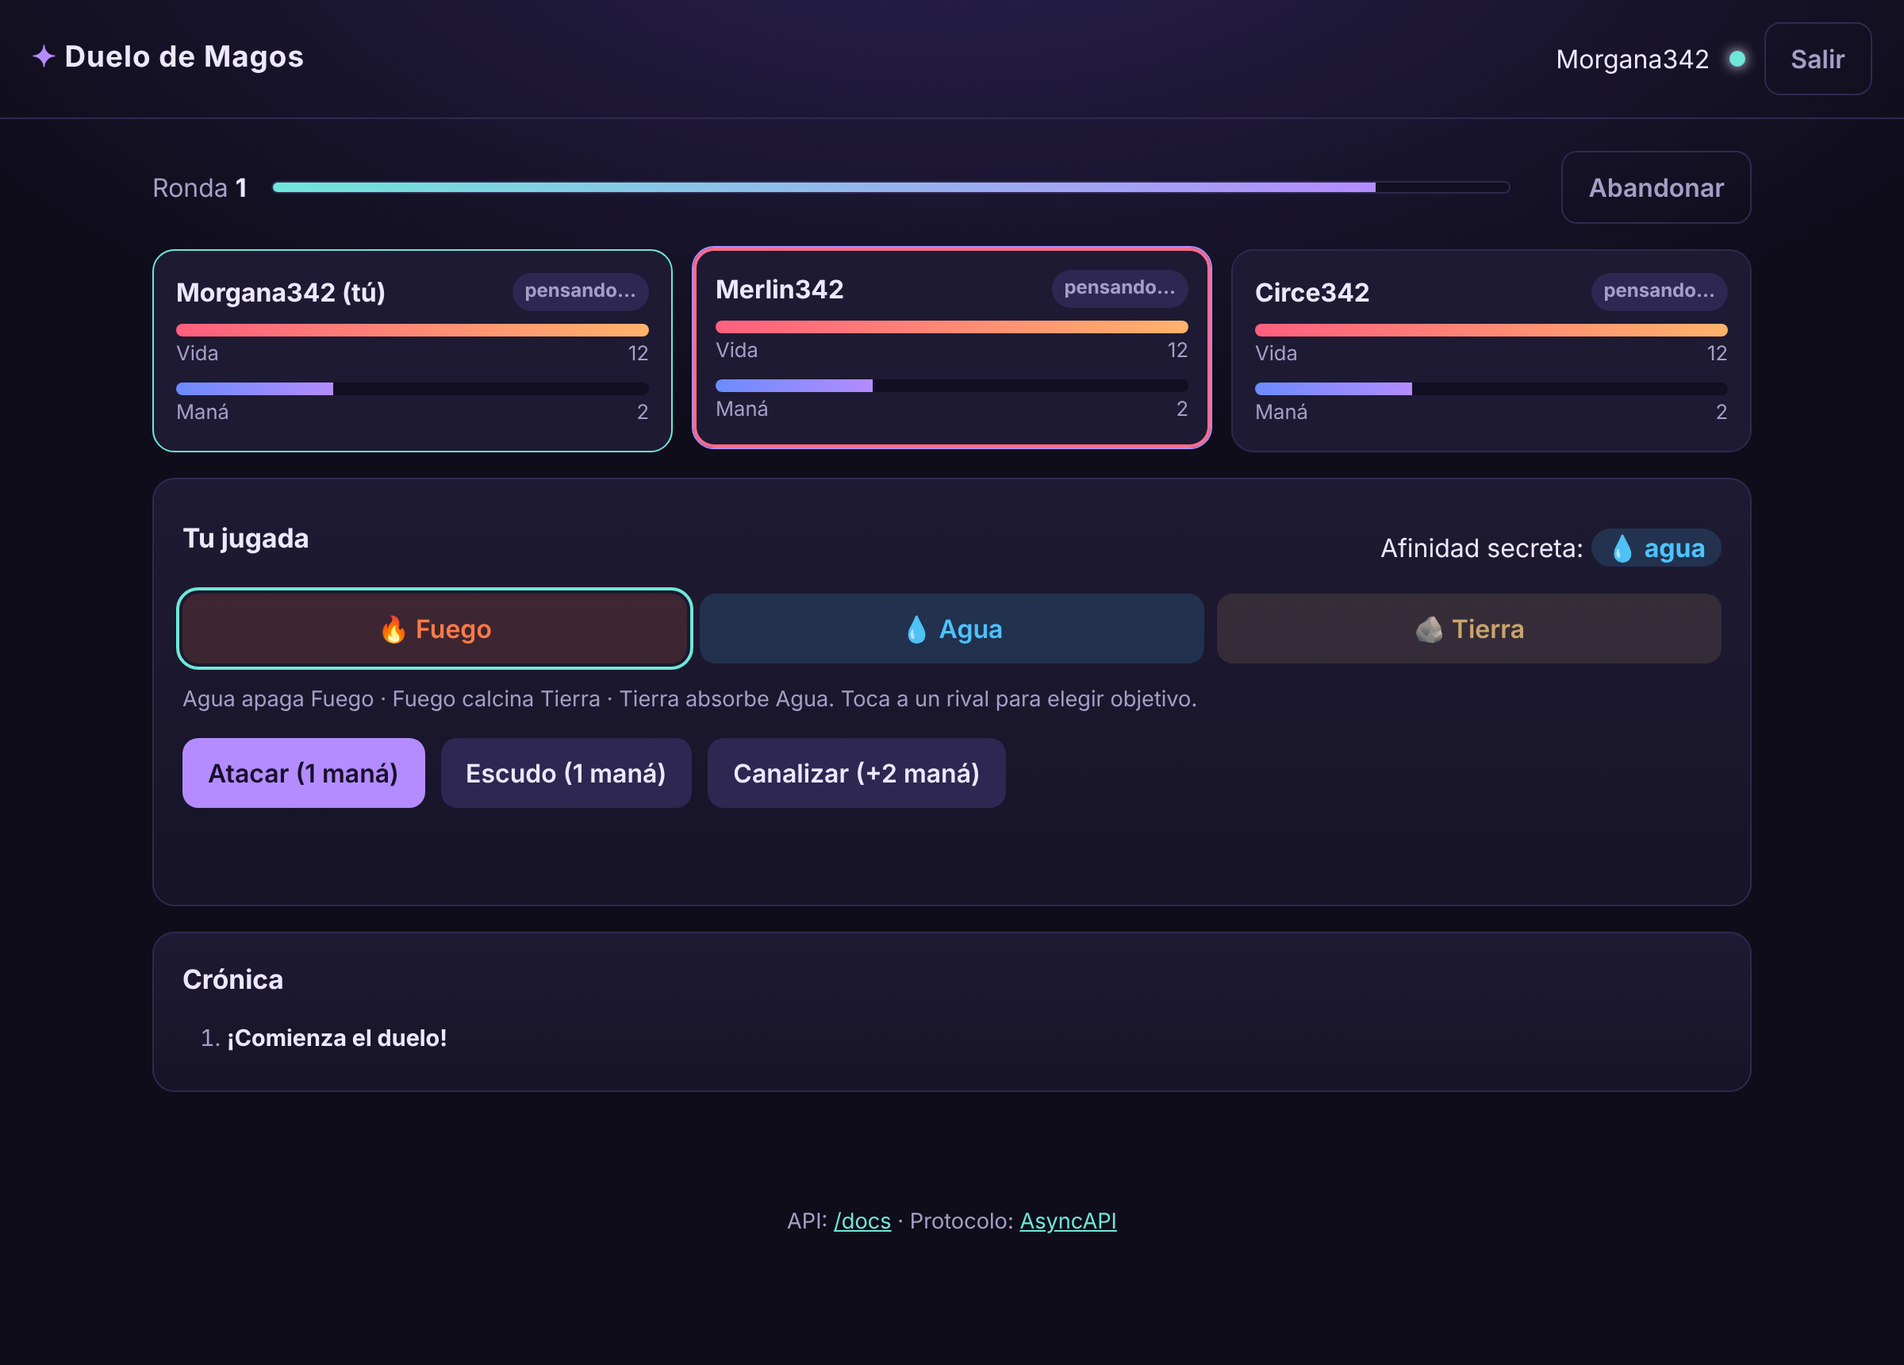
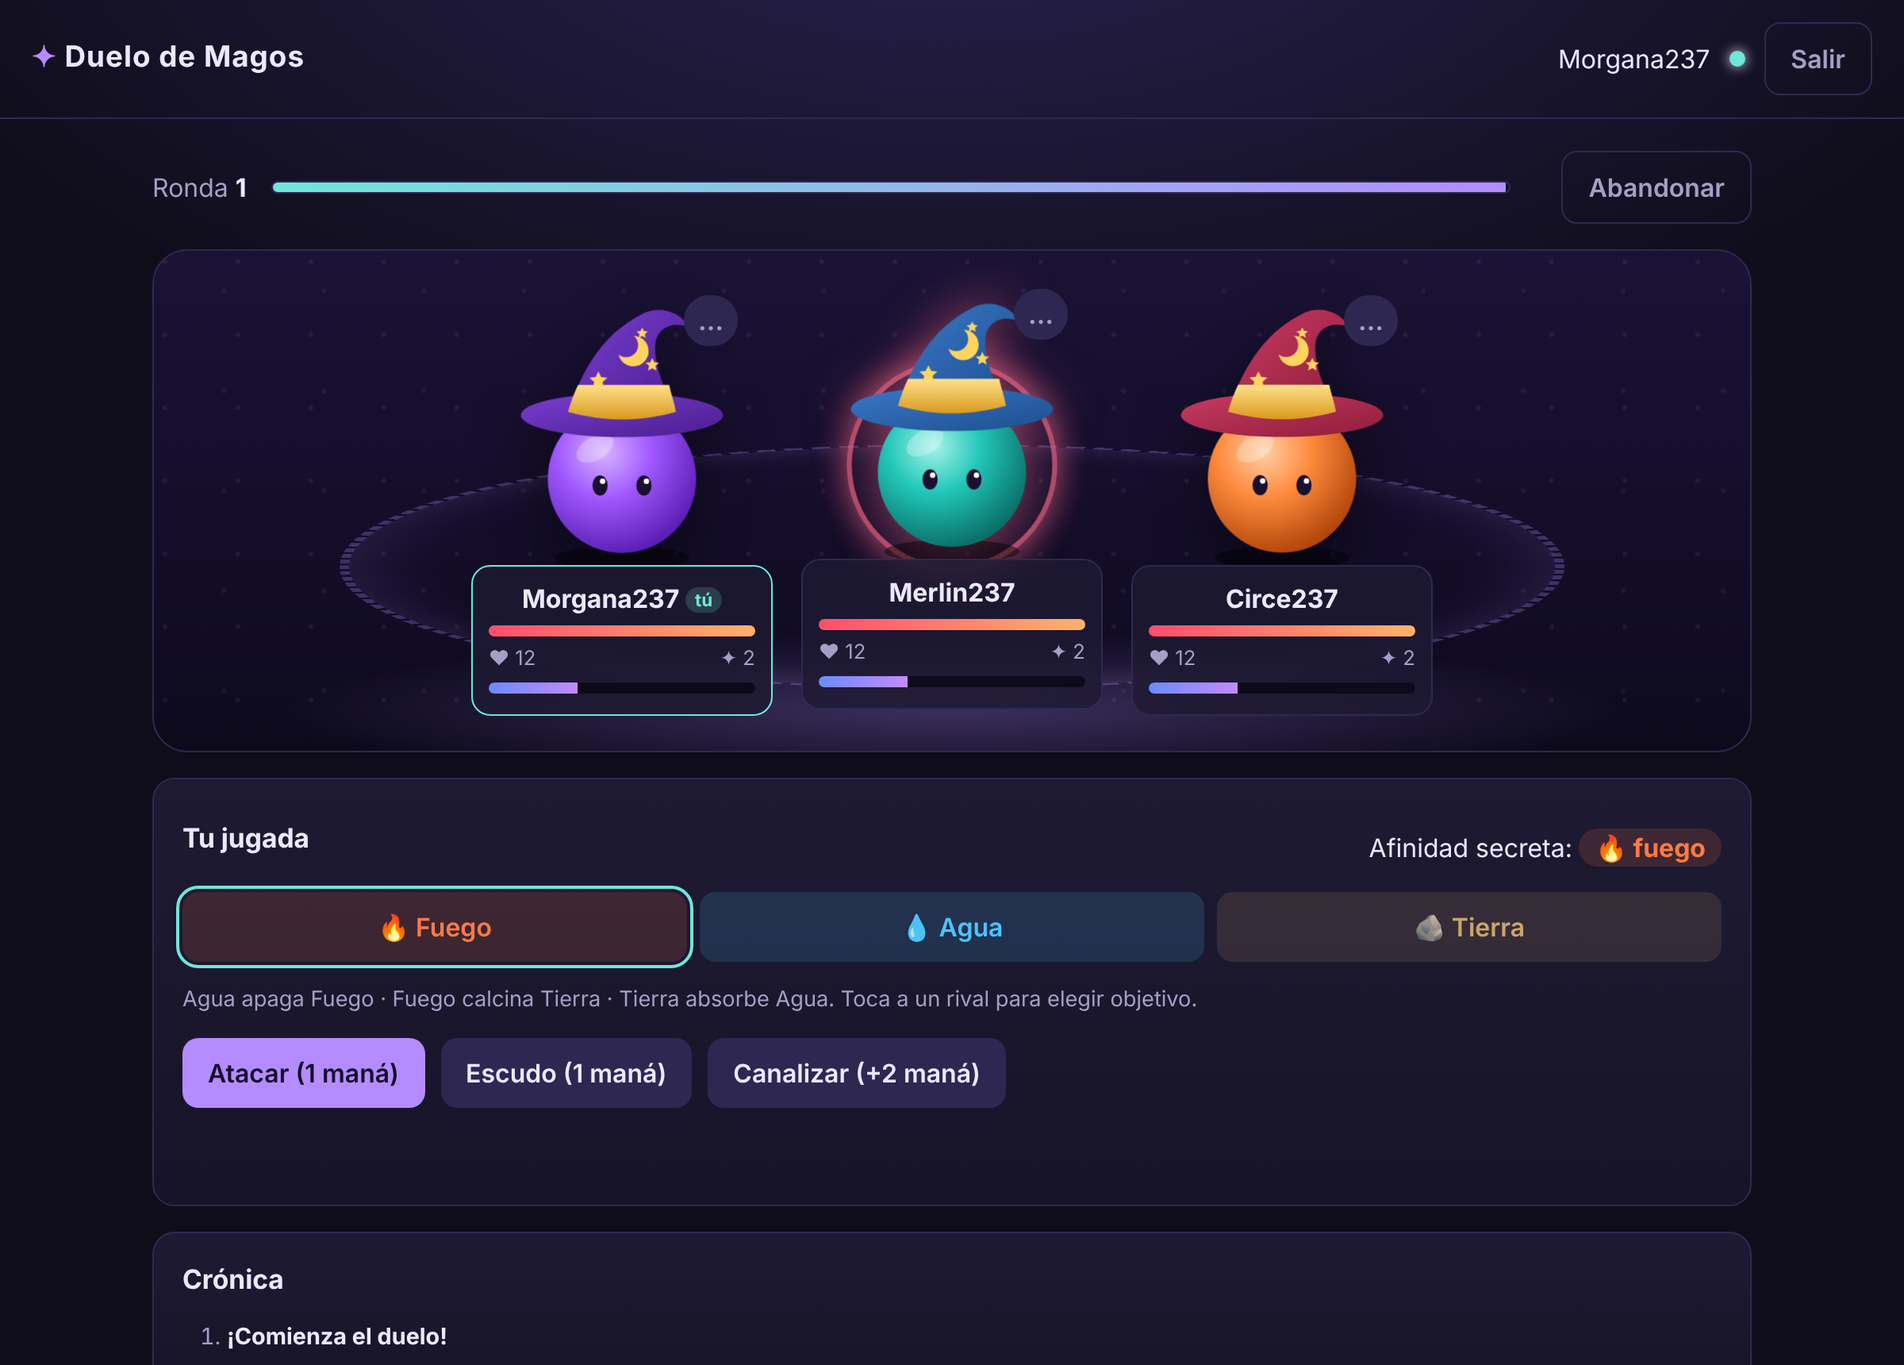
feat(cliente): arena de batalla con magos-esfera con sombrero (SVG) y animaciones de hechizos
Proyectiles por elemento, escudo, chispas al canalizar, daño flotante, sacudida al recibir golpe,
círculo mágico en el suelo, parpadeo y flotación; respeta prefers-reduced-motion.

Claude-Session: https://claude.ai/code/session_01MkUqoMp2Q4A2uLwBnPb6vZ

diff --git a/client/styles.css b/client/styles.css
@@ -61,21 +61,88 @@ button.selected { outline: 2px solid var(--accent2); outline-offset: 2px; }
 .gamebar { display: flex; align-items: center; gap: 16px; margin-bottom: 16px; }
 .timer { flex: 1; height: 8px; background: #120f22; border-radius: 99px; overflow: hidden; border: 1px solid var(--line); }
 #timerFill { height: 100%; width: 0; background: linear-gradient(90deg, var(--accent2), var(--accent)); transition: width .25s linear; }
-.players { display: grid; grid-template-columns: repeat(auto-fit, minmax(210px, 1fr)); gap: 12px; margin-bottom: 16px; }
-.mage { position: relative; padding: 14px; border-radius: var(--radius); border: 1px solid var(--line); background: var(--card); cursor: default; transition: border-color .15s, transform .15s; }
+/* ───────────── arena de batalla ───────────── */
+.players {
+  position: relative; display: flex; flex-wrap: wrap; justify-content: center; gap: 18px;
+  padding: 34px 16px 22px; margin-bottom: 16px; border-radius: 22px; border: 1px solid var(--line);
+  background:
+    radial-gradient(ellipse 60% 22% at 50% 92%, rgba(180, 140, 255, .28), transparent 70%),
+    radial-gradient(circle at 15% 15%, rgba(255, 255, 255, .06) 0 1px, transparent 2px) 0 0 / 46px 46px,
+    radial-gradient(circle at 70% 40%, rgba(255, 255, 255, .05) 0 1px, transparent 2px) 0 0 / 63px 63px,
+    linear-gradient(180deg, #1b1236 0%, #120c26 70%, #0d0a1c 100%);
+  overflow: hidden;
+}
+.players::after { /* círculo mágico en el suelo, visto en perspectiva */
+  content: ''; position: absolute; left: 50%; bottom: -270px; width: min(760px, 92%); aspect-ratio: 1; transform: translateX(-50%) scaleY(.2) rotate(0deg);
+  border-radius: 50%; border: 6px dashed rgba(180, 140, 255, .28); box-shadow: 0 0 60px rgba(180, 140, 255, .18) inset;
+  animation: rune 40s linear infinite; pointer-events: none;
+}
+@keyframes rune { to { transform: translateX(-50%) scaleY(.2) rotate(360deg); } }
+.mage { position: relative; z-index: 1; width: 190px; text-align: center; cursor: default; transition: transform .2s; }
+.mage .avatar { position: relative; width: 150px; height: 170px; margin: 0 auto; }
+.mage-svg { width: 100%; height: 100%; overflow: visible; filter: drop-shadow(0 10px 18px rgba(0, 0, 0, .45)); }
+.mage-svg .body, .mage-svg .hat { animation: bob 3.2s ease-in-out infinite; transform-origin: 70px 104px; }
+.mage-svg .hat { animation-delay: .08s; }
+.mage:nth-child(2) .mage-svg .body, .mage:nth-child(2) .mage-svg .hat { animation-duration: 3.6s; }
+.mage:nth-child(3) .mage-svg .body, .mage:nth-child(3) .mage-svg .hat { animation-duration: 2.9s; }
+@keyframes bob { 50% { transform: translateY(-7px); } }
+.mage-svg .eyes { animation: blink 5s infinite; transform-origin: 70px 108px; }
+@keyframes blink { 0%, 94%, 100% { transform: scaleY(1); } 96% { transform: scaleY(.1); } }
 .mage.targetable { cursor: pointer; }
-.mage.targetable:hover { border-color: var(--accent); transform: translateY(-2px); }
-.mage.target { border-color: var(--danger); box-shadow: 0 0 0 2px var(--danger) inset; }
-.mage.me { border-color: var(--accent2); }
-.mage.dead { opacity: .4; filter: grayscale(1); }
-.mage .name { font-weight: 700; display: flex; justify-content: space-between; gap: 8px; }
+.mage.targetable:hover { transform: translateY(-4px); }
+.mage.targetable:hover .mage-svg { filter: drop-shadow(0 0 16px rgba(255, 107, 138, .55)); }
+.mage.target .avatar::before { /* mira de objetivo */
+  content: ''; position: absolute; left: 50%; top: 62%; width: 118px; height: 118px; transform: translate(-50%, -50%);
+  border: 3px solid var(--danger); border-radius: 50%; box-shadow: 0 0 20px var(--danger); animation: pulse 1s ease-in-out infinite;
+}
+@keyframes pulse { 50% { transform: translate(-50%, -50%) scale(1.08); opacity: .6; } }
+.mage.me .plate { border-color: var(--accent2); }
+.mage.dead .mage-svg { filter: grayscale(1) brightness(.6); opacity: .55; }
+.mage.dead .mage-svg .hat { animation: none; transform: rotate(-18deg) translate(-8px, 18px); }
+.mage.dead .mage-svg .body { animation: none; }
+.mage.winner .mage-svg { filter: drop-shadow(0 0 22px rgba(255, 212, 94, .8)); }
+.mage.hit .avatar { animation: shake .4s; }
+.mage.hit .mage-svg { filter: drop-shadow(0 0 20px #ff4d6d) brightness(1.4); }
+@keyframes shake { 20%, 60% { transform: translateX(-7px); } 40%, 80% { transform: translateX(7px); } }
+.bubble {
+  position: absolute; z-index: 2; top: -6px; right: 22px; min-width: 32px; height: 32px; padding: 0 8px; border-radius: 16px;
+  display: grid; place-items: center; font-weight: 700; background: #2d2752; color: var(--muted); border: 1px solid var(--line);
+}
+.bubble.ok { background: rgba(110, 231, 216, .18); color: var(--accent2); border-color: rgba(110, 231, 216, .4); }
+.aff { position: absolute; left: 10px; top: 4px; font-size: 1.3rem; }
+.plate { margin-top: -6px; padding: 8px 10px; border-radius: 12px; background: rgba(30, 26, 51, .85); border: 1px solid var(--line); backdrop-filter: blur(4px); }
+.plate .name { font-weight: 700; white-space: nowrap; overflow: hidden; text-overflow: ellipsis; }
+.you { font-size: .7rem; padding: 1px 6px; border-radius: 99px; background: rgba(110, 231, 216, .18); color: var(--accent2); vertical-align: middle; }
+.bar { height: 7px; border-radius: 99px; background: #0d0a1c; overflow: hidden; margin: 5px 0; }
+.bar > div { height: 100%; transition: width .6s cubic-bezier(.2, .8, .2, 1); }
+.hp > div { background: linear-gradient(90deg, #ff4d6d, #ffb36b); }
+.mana > div { background: linear-gradient(90deg, #6b8bff, #c38bff); }
+.stat { display: flex; justify-content: space-between; font-size: .8rem; color: var(--muted); }
 .badge { font-size: .75rem; padding: 2px 8px; border-radius: 99px; background: #2d2752; color: var(--muted); }
 .badge.ok { background: rgba(110, 231, 216, .15); color: var(--accent2); }
-.bar { height: 8px; border-radius: 99px; background: #120f22; overflow: hidden; margin: 8px 0 2px; }
-.bar > div { height: 100%; transition: width .3s; }
-.hp > div { background: linear-gradient(90deg, #ff5f7e, #ffb36b); }
-.mana > div { background: linear-gradient(90deg, #6b8bff, #b48cff); }
-.stat { display: flex; justify-content: space-between; font-size: .8rem; color: var(--muted); }
+
+/* efectos de hechizos */
+.orb {
+  position: absolute; z-index: 50; width: 26px; height: 26px; margin: -13px 0 0 -13px; border-radius: 50%; pointer-events: none;
+  transition: transform .65s cubic-bezier(.45, 0, .2, 1);
+}
+.orb.fuego { background: radial-gradient(circle, #fff3b0, #ff7a45 45%, rgba(255, 60, 0, 0)); box-shadow: 0 0 24px 10px rgba(255, 110, 40, .7); }
+.orb.agua { background: radial-gradient(circle, #e8fbff, #4cc3ff 45%, rgba(0, 120, 255, 0)); box-shadow: 0 0 24px 10px rgba(76, 195, 255, .7); }
+.orb.tierra { background: radial-gradient(circle, #fff1d0, #c9a46b 45%, rgba(120, 80, 20, 0)); box-shadow: 0 0 24px 10px rgba(201, 164, 107, .7); }
+.orb.burst { animation: burst .45s forwards; }
+@keyframes burst { to { opacity: 0; width: 120px; height: 120px; margin: -60px 0 0 -60px; } }
+.shield-fx {
+  position: absolute; left: 50%; top: 60%; width: 140px; height: 140px; transform: translate(-50%, -50%); border-radius: 50%; pointer-events: none;
+  border: 3px solid rgba(110, 231, 216, .9); background: radial-gradient(circle, rgba(110, 231, 216, .05) 55%, rgba(110, 231, 216, .35));
+  box-shadow: 0 0 30px rgba(110, 231, 216, .7); animation: shieldUp 1.6s ease-out forwards;
+}
+@keyframes shieldUp { 0% { opacity: 0; transform: translate(-50%, -50%) scale(.5); } 20% { opacity: 1; transform: translate(-50%, -50%) scale(1); } 100% { opacity: 0; } }
+.spark { position: absolute; bottom: 30px; width: 8px; height: 8px; border-radius: 50%; background: #c38bff; box-shadow: 0 0 12px 3px #b48cff; animation: rise 1.2s ease-out forwards; pointer-events: none; }
+@keyframes rise { from { transform: translateY(0); opacity: 1; } to { transform: translateY(-110px); opacity: 0; } }
+.dmg { position: absolute; z-index: 5; left: 50%; top: 52%; transform: translateX(-50%); font-size: 2.2rem; font-weight: 900; color: #fff; -webkit-text-stroke: 2px #d6153e; text-shadow: 0 0 14px rgba(255, 77, 109, .95); animation: floatUp 1.3s ease-out forwards; pointer-events: none; }
+@keyframes floatUp { to { transform: translate(-50%, -60px); opacity: 0; } }
+@media (prefers-reduced-motion: reduce) { .mage-svg .body, .mage-svg .hat, .players::after, .mage-svg .eyes { animation: none; } }
+
 .elements { display: grid; grid-template-columns: repeat(3, 1fr); gap: 8px; margin: 12px 0 6px; }
 .el.fuego { background: rgba(255, 122, 69, .15); color: var(--fuego); }
 .el.agua { background: rgba(76, 195, 255, .15); color: var(--agua); }
@@ -84,4 +151,4 @@ strong.el { padding: 2px 10px; border-radius: 99px; }
 .log { margin: 0; padding-left: 28px; max-height: 260px; overflow: auto; font-size: .9rem; }
 .log li { margin: 4px 0; color: var(--muted); }
 .log li strong { color: var(--text); }
-@media (max-width: 600px) { .gamebar { flex-wrap: wrap; } .elements { grid-template-columns: 1fr; } }
+@media (max-width: 600px) { .gamebar { flex-wrap: wrap; } .elements { grid-template-columns: 1fr; } .mage { width: 150px; } .mage .avatar { width: 118px; height: 134px; } }

diff --git a/client/app.js b/client/app.js
@@ -161,6 +161,7 @@ function onUpdate({ matchId, fromSeq, toSeq, events }) {
         v.round = e.round + 1;
         v.roundDeadline = e.nextDeadline;
         st.target = null;
+        st.animate = e.outcomes;
         break;
       case 'player.presence': {
         const p = v.players.find((x) => x.id === e.playerId);
@@ -183,6 +184,11 @@ function onUpdate({ matchId, fromSeq, toSeq, events }) {
     }
   }
   renderGame();
+  if (st.animate) {
+    const outcomes = st.animate;
+    st.animate = null;
+    playRound(outcomes);
+  }
 }
 
 // ───────────── vistas ─────────────
@@ -246,19 +252,27 @@ function renderGame() {
   $('round').textContent = v.status === 'lobby' ? 'sala' : v.round;
   $('code').textContent = st.code ? `Código: ${st.code}` : '';
   $('players').innerHTML = '';
-  for (const p of v.players) {
+  v.players.forEach((p, i) => {
     const el = document.createElement('div');
     const targetable = v.status === 'active' && me?.alive && p.alive && p.id !== me.id && !v.you?.pendingAction;
-    el.className = `mage${p.id === me?.id ? ' me' : ''}${p.alive ? '' : ' dead'}${targetable ? ' targetable' : ''}${st.target === p.id ? ' target' : ''}`;
     const winner = v.result?.winners?.includes(p.id);
-    const status = v.status === 'finished' || v.status === 'aborted' ? (winner ? '<span class="badge ok">🏆 ganador</span>' : p.alive ? '' : '<span class="badge">☠</span>') : v.status === 'lobby' ? (p.ready ? '<span class="badge ok">listo</span>' : '<span class="badge">esperando</span>') : !p.alive ? '<span class="badge">☠</span>' : p.hasActed ? '<span class="badge ok">eligió</span>' : '<span class="badge">pensando…</span>';
-    const aff = v.affinities?.[p.id] ? ` ${EMOJI[v.affinities[p.id]]}` : '';
-    el.innerHTML = `<div class="name"><span>${esc(p.name)}${p.id === me?.id ? ' (tú)' : ''}${aff}${p.connected ? '' : ' ⚡'}</span>${status}</div>
-      <div class="bar hp"><div style="width:${(p.hp / 12) * 100}%"></div></div><div class="stat"><span>Vida</span><span>${p.hp}</span></div>
-      <div class="bar mana"><div style="width:${(p.mana / (v.config?.maxMana ?? 6)) * 100}%"></div></div><div class="stat"><span>Maná</span><span>${p.mana}</span></div>`;
+    el.className = `mage${p.id === me?.id ? ' me' : ''}${p.alive ? '' : ' dead'}${targetable ? ' targetable' : ''}${st.target === p.id ? ' target' : ''}${winner ? ' winner' : ''}`;
+    el.dataset.id = p.id;
+    const ended = v.status === 'finished' || v.status === 'aborted';
+    const bubble = ended ? (winner ? '🏆' : '') : v.status === 'lobby' ? (p.ready ? '✓' : '…') : !p.alive ? '' : p.hasActed ? '✓' : '…';
+    const aff = v.affinities?.[p.id] ? `<span class="aff ${v.affinities[p.id]}">${EMOJI[v.affinities[p.id]]}</span>` : '';
+    el.innerHTML = `
+      <div class="bubble${bubble === '✓' || bubble === '🏆' ? ' ok' : ''}"${bubble ? '' : ' hidden'}>${bubble}</div>
+      <div class="avatar">${mageSVG(i, p.alive)}${aff}</div>
+      <div class="plate">
+        <div class="name">${esc(p.name)}${p.id === me?.id ? ' <span class="you">tú</span>' : ''}${p.connected ? '' : ' <span title="desconectado">⚡</span>'}</div>
+        <div class="bar hp"><div style="width:${(p.hp / 12) * 100}%"></div></div>
+        <div class="stat"><span>❤ ${p.hp}</span><span>✦ ${p.mana}</span></div>
+        <div class="bar mana"><div style="width:${(p.mana / (v.config?.maxMana ?? 6)) * 100}%"></div></div>
+      </div>`;
     if (targetable) el.onclick = () => { st.target = p.id; renderGame(); };
     $('players').append(el);
-  }
+  });
   $('lobbyActions').hidden = v.status !== 'lobby';
   $('ready').textContent = me?.ready ? 'Ya no estoy listo' : 'Estoy listo';
   const playing = v.status === 'active' && me?.alive;
@@ -326,6 +340,108 @@ function log(html) {
 
 function esc(s) {
   return String(s).replace(/[&<>"']/g, (c) => ({ '&': '&amp;', '<': '&lt;', '>': '&gt;', '"': '&quot;', "'": '&#39;' })[c]);
+}
+
+// ───────────── arte: magos como esferas con sombrero (SVG) ─────────────
+const PALETTE = [
+  { body: '#a259ff', light: '#d7b4ff', dark: '#5b1fb5', hat: '#4b1d8f', hatLight: '#7a3fd1' },
+  { body: '#22c7b8', light: '#a7f3ea', dark: '#0b6f68', hat: '#1d4f8f', hatLight: '#3b78c9' },
+  { body: '#ff8a3d', light: '#ffd0a8', dark: '#b2470b', hat: '#8f1d3b', hatLight: '#c93b62' },
+  { body: '#ff5fa2', light: '#ffc2dc', dark: '#a8155a', hat: '#3b1d8f', hatLight: '#6a45d6' },
+];
+
+function mageSVG(i, alive) {
+  const c = PALETTE[i % PALETTE.length];
+  const id = `m${i}`;
+  return `<svg viewBox="0 0 140 160" class="mage-svg" aria-hidden="true">
+    <defs>
+      <radialGradient id="${id}b" cx="38%" cy="32%" r="70%">
+        <stop offset="0" stop-color="${c.light}"/><stop offset=".45" stop-color="${c.body}"/><stop offset="1" stop-color="${c.dark}"/>
+      </radialGradient>
+      <linearGradient id="${id}h" x1="0" x2="1" y1="0" y2="1">
+        <stop offset="0" stop-color="${c.hatLight}"/><stop offset="1" stop-color="${c.hat}"/>
+      </linearGradient>
+      <linearGradient id="${id}g" x1="0" x2="0" y1="0" y2="1">
+        <stop offset="0" stop-color="#ffe08a"/><stop offset="1" stop-color="#d99a1e"/>
+      </linearGradient>
+    </defs>
+    <ellipse class="shadow" cx="70" cy="150" rx="40" ry="7" fill="#000" opacity=".45"/>
+    <g class="body">
+      <circle cx="70" cy="104" r="44" fill="url(#${id}b)"/>
+      <ellipse cx="54" cy="86" rx="12" ry="7" fill="#fff" opacity=".28" transform="rotate(-30 54 86)"/>
+      ${alive ? `<g class="eyes"><ellipse cx="57" cy="108" rx="4.5" ry="6" fill="#1a1030"/><ellipse cx="83" cy="108" rx="4.5" ry="6" fill="#1a1030"/>
+        <circle cx="58.5" cy="105.5" r="1.6" fill="#fff"/><circle cx="84.5" cy="105.5" r="1.6" fill="#fff"/></g>`
+        : `<g stroke="#1a1030" stroke-width="3" stroke-linecap="round"><path d="M52 103l9 9M61 103l-9 9M78 103l9 9M87 103l-9 9"/></g>`}
+    </g>
+    <g class="hat">
+      <ellipse cx="70" cy="66" rx="60" ry="13" fill="url(#${id}h)"/>
+      <path d="M38 64 C46 40 58 18 82 6 C92 1 104 4 110 14 C100 10 92 14 90 22 C88 36 96 52 102 64 Z" fill="url(#${id}h)"/>
+      <path d="M38 64 C40 57 42 52 44 48 L98 48 C99 53 101 58 102 64 C80 70 60 70 38 64 Z" fill="url(#${id}g)"/>
+      <path d="M68 30a9 9 0 1 0 9 -11a7 7 0 1 1 -9 11z" fill="#ffd45e"/>
+      <path d="M56 40l1.6 3.4 3.7.4-2.8 2.5.8 3.7-3.3-1.9-3.3 1.9.8-3.7-2.8-2.5 3.7-.4z" fill="#ffd45e"/>
+      <path d="M88 32l1.2 2.6 2.8.3-2.1 1.9.6 2.8-2.5-1.4-2.5 1.4.6-2.8-2.1-1.9 2.8-.3z" fill="#ffd45e"/>
+      <path d="M82 14l1 2.1 2.3.3-1.7 1.5.5 2.3-2.1-1.2-2.1 1.2.5-2.3-1.7-1.5 2.3-.3z" fill="#ffd45e"/>
+    </g>
+  </svg>`;
+}
+
+const ELEMENT_COLOR = { fuego: '#ff7a45', agua: '#4cc3ff', tierra: '#c9a46b' };
+
+function center(el) {
+  const r = el.getBoundingClientRect();
+  return { x: r.left + r.width / 2 + window.scrollX, y: r.top + r.height * 0.55 + window.scrollY };
+}
+
+/** Anima la ronda resuelta: hechizos que vuelan, escudos, maná y daño flotante. */
+function playRound(outcomes) {
+  const node = (id) => document.querySelector(`.mage[data-id="${id}"]`);
+  for (const o of outcomes) {
+    const from = node(o.playerId);
+    if (!from) continue;
+    if (o.action.kind === 'shield') {
+      const s = document.createElement('div');
+      s.className = 'shield-fx';
+      from.querySelector('.avatar').append(s);
+      setTimeout(() => s.remove(), 1600);
+    } else if (o.action.kind === 'channel') {
+      for (let k = 0; k < 7; k++) {
+        const sp = document.createElement('span');
+        sp.className = 'spark';
+        sp.style.left = `${20 + Math.random() * 60}%`;
+        sp.style.animationDelay = `${Math.random() * 0.4}s`;
+        from.querySelector('.avatar').append(sp);
+        setTimeout(() => sp.remove(), 1500);
+      }
+    } else if (o.action.kind === 'attack') {
+      const to = node(o.action.target);
+      if (!to) continue;
+      const a = center(from), b = center(to);
+      const orb = document.createElement('div');
+      orb.className = `orb ${o.action.element}`;
+      orb.style.left = `${a.x}px`;
+      orb.style.top = `${a.y}px`;
+      document.body.append(orb);
+      requestAnimationFrame(() => requestAnimationFrame(() => {
+        orb.style.transform = `translate(${b.x - a.x}px, ${b.y - a.y}px) scale(1.3)`;
+      }));
+      setTimeout(() => {
+        orb.classList.add('burst');
+        to.classList.add('hit');
+        setTimeout(() => { orb.remove(); to.classList.remove('hit'); }, 450);
+      }, 650);
+    }
+  }
+  setTimeout(() => {
+    for (const o of outcomes) {
+      const el = node(o.playerId);
+      if (!el || !o.damageTaken) continue;
+      const d = document.createElement('div');
+      d.className = 'dmg';
+      d.textContent = `-${o.damageTaken}`;
+      el.querySelector('.avatar').append(d);
+      setTimeout(() => d.remove(), 1300);
+    }
+  }, 700);
 }
 
 function alertError(e) {
